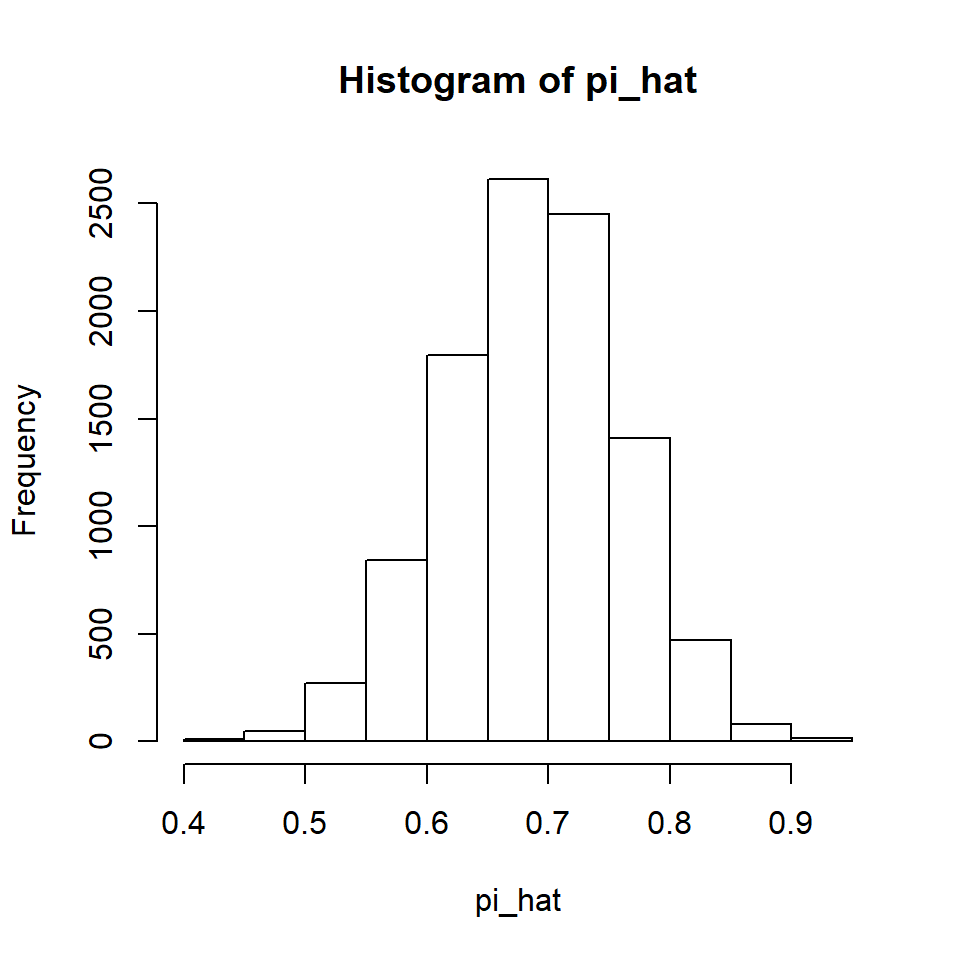
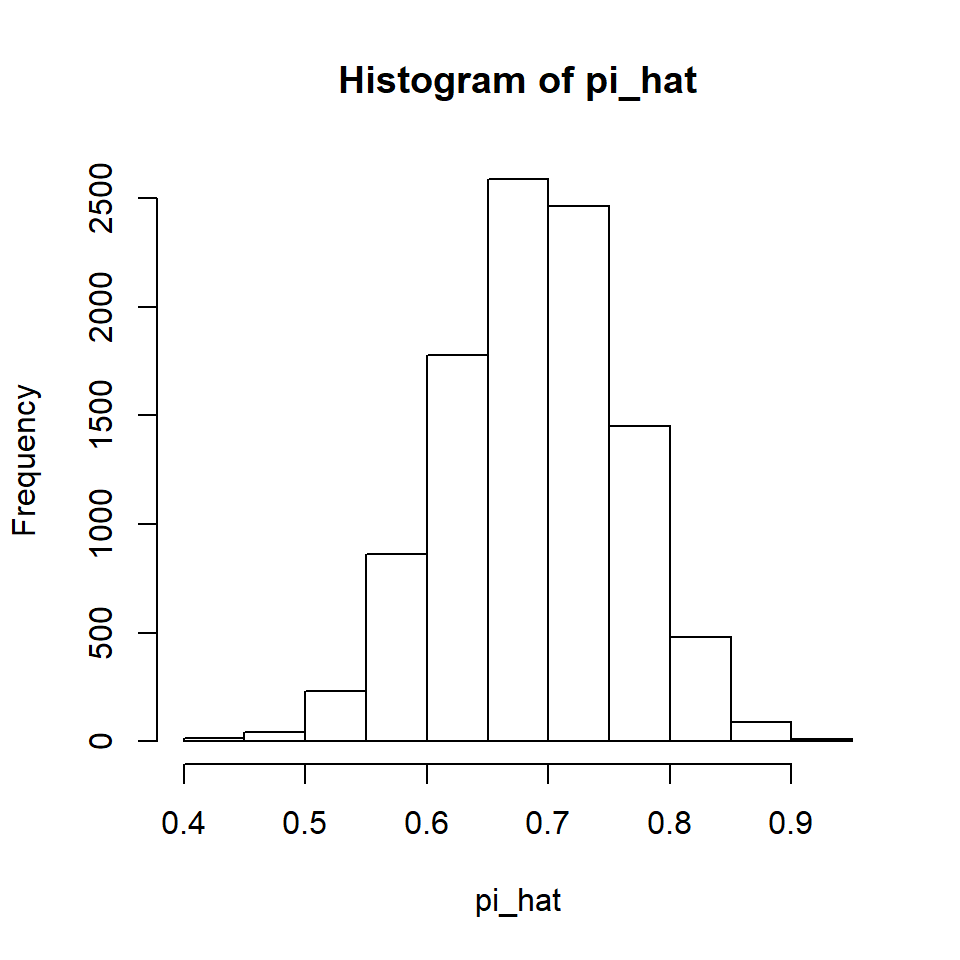
Rebuild of site for new version

diff --git a/docs/articles/lsprop.html b/docs/articles/lsprop.html
@@ -30,7 +30,7 @@
       </button>
       <span class="navbar-brand">
         <a class="navbar-link" href="../index.html">nplearn</a>
-        <span class="version label label-danger" data-toggle="tooltip" data-placement="bottom" title="Unreleased version">0.0.0.9006</span>
+        <span class="version label label-danger" data-toggle="tooltip" data-placement="bottom" title="Unreleased version">0.0.0.9007</span>
       </span>
     </div>
 
@@ -112,8 +112,8 @@
 <span id="cb2-2"><a href="#cb2-2"></a>pi &lt;-<span class="st"> </span><span class="fl">0.7</span></span>
 <span id="cb2-3"><a href="#cb2-3"></a></span>
 <span id="cb2-4"><a href="#cb2-4"></a><span class="kw"><a href="https://www.rdocumentation.org/packages/Rlab/topics/Bernoulli">rbern</a></span>(n, pi)</span>
-<span id="cb2-5"><a href="#cb2-5"></a><span class="co">#&gt;  [1] 1 1 1 1 0 1 0 0 1 1 0 1 0 1 1 1 1 1 0 0 1 0 1 0 1 0 1 1 0 1 1 0 1 1 1</span></span>
-<span id="cb2-6"><a href="#cb2-6"></a><span class="co">#&gt; [36] 1 1 1 1 1</span></span></code></pre></div>
+<span id="cb2-5"><a href="#cb2-5"></a><span class="co">#&gt;  [1] 1 0 1 1 0 1 1 0 1 1 1 0 1 0 1 1 0 1 0 1 1 1 0 1 0 1 1 1 1 1 0 1 1 0 1</span></span>
+<span id="cb2-6"><a href="#cb2-6"></a><span class="co">#&gt; [36] 1 0 0 0 0</span></span></code></pre></div>
 <p>Now we will repeat this simulation 10,000 times. Each time, we will calculate the proportion success in the sample and save it.</p>
 <div class="sourceCode" id="cb3"><pre class="sourceCode r"><code class="sourceCode r"><span id="cb3-1"><a href="#cb3-1"></a>reps &lt;-<span class="st"> </span><span class="dv">10000</span></span>
 <span id="cb3-2"><a href="#cb3-2"></a></span>
@@ -123,7 +123,7 @@
 <p><img src="lsprop_files/figure-html/unnamed-chunk-4-1.png" width="480"></p>
 <p>We can see the CLT at work. Further, note that if we calculate the mean of all 10,000 values of the sample proportions, it is quite close to the population proportion of 0.7.</p>
 <div class="sourceCode" id="cb5"><pre class="sourceCode r"><code class="sourceCode r"><span id="cb5-1"><a href="#cb5-1"></a><span class="kw"><a href="https://www.rdocumentation.org/packages/base/topics/mean">mean</a></span>(pi_hat)</span>
-<span id="cb5-2"><a href="#cb5-2"></a><span class="co">#&gt; [1] 0.70022</span></span></code></pre></div>
+<span id="cb5-2"><a href="#cb5-2"></a><span class="co">#&gt; [1] 0.70138</span></span></code></pre></div>
 <p>When the mean of a statistic’s sampling distribution is the population value of the parameter the statistic is estimating, we refer to the statistic as <em>unbiased</em>. This is a desirable property because it tells us that the average of many wrongs is a right!</p>
 <p>If we increase the sample size, we can see the Law of Large Numbers at work. Let’s try increasing it from 40 to 200.</p>
 <div class="sourceCode" id="cb6"><pre class="sourceCode r"><code class="sourceCode r"><span id="cb6-1"><a href="#cb6-1"></a>n &lt;-<span class="st"> </span><span class="dv">200</span></span>

diff --git a/docs/articles/binomdist.html b/docs/articles/binomdist.html
@@ -30,7 +30,7 @@
       </button>
       <span class="navbar-brand">
         <a class="navbar-link" href="../index.html">nplearn</a>
-        <span class="version label label-danger" data-toggle="tooltip" data-placement="bottom" title="Unreleased version">0.0.0.9006</span>
+        <span class="version label label-danger" data-toggle="tooltip" data-placement="bottom" title="Unreleased version">0.0.0.9007</span>
       </span>
     </div>
 
@@ -279,7 +279,7 @@
 <p>The important trick to remember here is that if we want an upper tail that includes a specified value (in this case, the value of eight), we need to subtract one from this value to make sure it is included in the upper region of the distribution.</p>
 <p>Finally, suppose we wanted to do a simulation using the binomial distribution. Here are 20 random draws from a distribution with <span class="math inline">\(\pi\)</span> = 0.8 when the sample size is 15.</p>
 <div class="sourceCode" id="cb37"><pre class="sourceCode r"><code class="sourceCode r"><span id="cb37-1"><a href="#cb37-1"></a><span class="kw"><a href="https://www.rdocumentation.org/packages/stats/topics/Binomial">rbinom</a></span>(<span class="dv">20</span>, <span class="dv">15</span>, <span class="fl">0.8</span>)</span>
-<span id="cb37-2"><a href="#cb37-2"></a><span class="co">#&gt;  [1] 12 12 13 13 10 10 13 14 13 12 12 11 11 12 13 13 12 11 13 14</span></span></code></pre></div>
+<span id="cb37-2"><a href="#cb37-2"></a><span class="co">#&gt;  [1] 12 12 14 14 13 13 13 12 12 13 10 12 12 11 11 13 14 13 13 12</span></span></code></pre></div>
 <p>Keep in mind that what each number we are randomly generating is the value of <span class="math inline">\(x\)</span>, which is the number of successes in <span class="math inline">\(n\)</span> trials. In this example there are 15 opportunities for success. The probability of success is quite high, so we are primarily seeing high numbers of successes out of the 15 trials.</p>
 <p>In this example, we were drawing from a binomial distribution with <span class="math inline">\(n\)</span> trials and a probability of success, <span class="math inline">\(\pi\)</span>. These are the parameters of the binomial distribution. Any binomial distribution can be generated if we know these two parameters. Let’s end with a picture of a binomial distribution when <span class="math inline">\(n\)</span> = 100 and <span class="math inline">\(\pi\)</span> = 0.5.</p>
 <div class="sourceCode" id="cb38"><pre class="sourceCode r"><code class="sourceCode r"><span id="cb38-1"><a href="#cb38-1"></a><span class="kw"><a href="../reference/binom_plot.html">binom_plot</a></span>(<span class="dv">100</span>, <span class="fl">0.5</span>)</span></code></pre></div>

diff --git a/docs/articles/Bernoulli-Events.html b/docs/articles/Bernoulli-Events.html
@@ -30,7 +30,7 @@
       </button>
       <span class="navbar-brand">
         <a class="navbar-link" href="../index.html">nplearn</a>
-        <span class="version label label-danger" data-toggle="tooltip" data-placement="bottom" title="Unreleased version">0.0.0.9006</span>
+        <span class="version label label-danger" data-toggle="tooltip" data-placement="bottom" title="Unreleased version">0.0.0.9007</span>
       </span>
     </div>
 
@@ -192,10 +192,10 @@
 <a href="#random-variates" class="anchor"></a>Random variates</h3>
 <p>R also has (r) functions for many distributions (e.g., rnorm and rbern). These provide us a specified number of randomly seleted values from the corresponding distribution. These are known as “random variates”. This will be very handy when we study concepts such as Monte Carlo methods.</p>
 <div class="sourceCode" id="cb15"><pre class="sourceCode r"><code class="sourceCode r"><span id="cb15-1"><a href="#cb15-1"></a><span class="kw"><a href="https://www.rdocumentation.org/packages/stats/topics/Normal">rnorm</a></span>(<span class="dv">10</span>)</span>
-<span id="cb15-2"><a href="#cb15-2"></a><span class="co">#&gt;  [1]  0.2275929  1.2290403 -1.4243602  0.2972622  0.4317914  0.4546134</span></span>
-<span id="cb15-3"><a href="#cb15-3"></a><span class="co">#&gt;  [7] -2.7005521  0.1708188 -0.9351374 -0.5065416</span></span>
+<span id="cb15-2"><a href="#cb15-2"></a><span class="co">#&gt;  [1]  0.1210673 -0.5922141 -0.5516040  1.5580930 -0.5874942  1.2093310</span></span>
+<span id="cb15-3"><a href="#cb15-3"></a><span class="co">#&gt;  [7]  0.6343851  1.1108001  2.1798830 -0.9169837</span></span>
 <span id="cb15-4"><a href="#cb15-4"></a><span class="kw">rbern</span>(<span class="dv">10</span>, <span class="fl">0.7</span>)</span>
-<span id="cb15-5"><a href="#cb15-5"></a><span class="co">#&gt;  [1] 1 1 1 0 1 1 0 0 1 1</span></span></code></pre></div>
+<span id="cb15-5"><a href="#cb15-5"></a><span class="co">#&gt;  [1] 0 1 1 1 1 1 1 1 1 1</span></span></code></pre></div>
 </div>
   </div>
 

diff --git a/docs/reference/binom_plot.html b/docs/reference/binom_plot.html
@@ -64,7 +64,7 @@ specified number of trials and a constant probability of success." />
       </button>
       <span class="navbar-brand">
         <a class="navbar-link" href="../index.html">nplearn</a>
-        <span class="version label label-danger" data-toggle="tooltip" data-placement="bottom" title="Unreleased version">0.0.0.9006</span>
+        <span class="version label label-danger" data-toggle="tooltip" data-placement="bottom" title="Unreleased version">0.0.0.9007</span>
       </span>
     </div>
 

diff --git a/docs/reference/power_plot.html b/docs/reference/power_plot.html
@@ -65,7 +65,7 @@ a maximum Type I error rate, and an optional power target." />
       </button>
       <span class="navbar-brand">
         <a class="navbar-link" href="../index.html">nplearn</a>
-        <span class="version label label-danger" data-toggle="tooltip" data-placement="bottom" title="Unreleased version">0.0.0.9006</span>
+        <span class="version label label-danger" data-toggle="tooltip" data-placement="bottom" title="Unreleased version">0.0.0.9007</span>
       </span>
     </div>
 

diff --git a/docs/reference/bern_plot.html b/docs/reference/bern_plot.html
@@ -64,7 +64,7 @@ specified probability of success of a Bernoulli event." />
       </button>
       <span class="navbar-brand">
         <a class="navbar-link" href="../index.html">nplearn</a>
-        <span class="version label label-danger" data-toggle="tooltip" data-placement="bottom" title="Unreleased version">0.0.0.9006</span>
+        <span class="version label label-danger" data-toggle="tooltip" data-placement="bottom" title="Unreleased version">0.0.0.9007</span>
       </span>
     </div>
 

diff --git a/docs/articles/OnePropExact.html b/docs/articles/OnePropExact.html
@@ -30,7 +30,7 @@
       </button>
       <span class="navbar-brand">
         <a class="navbar-link" href="../index.html">nplearn</a>
-        <span class="version label label-danger" data-toggle="tooltip" data-placement="bottom" title="Unreleased version">0.0.0.9006</span>
+        <span class="version label label-danger" data-toggle="tooltip" data-placement="bottom" title="Unreleased version">0.0.0.9007</span>
       </span>
     </div>
 

diff --git a/docs/articles/Workflow-Sample.html b/docs/articles/Workflow-Sample.html
@@ -30,7 +30,7 @@
       </button>
       <span class="navbar-brand">
         <a class="navbar-link" href="../index.html">nplearn</a>
-        <span class="version label label-danger" data-toggle="tooltip" data-placement="bottom" title="Unreleased version">0.0.0.9006</span>
+        <span class="version label label-danger" data-toggle="tooltip" data-placement="bottom" title="Unreleased version">0.0.0.9007</span>
       </span>
     </div>
 

diff --git a/docs/articles/index.html b/docs/articles/index.html
@@ -60,7 +60,7 @@
       </button>
       <span class="navbar-brand">
         <a class="navbar-link" href="../index.html">nplearn</a>
-        <span class="version label label-danger" data-toggle="tooltip" data-placement="bottom" title="Unreleased version">0.0.0.9006</span>
+        <span class="version label label-danger" data-toggle="tooltip" data-placement="bottom" title="Unreleased version">0.0.0.9007</span>
       </span>
     </div>
 

diff --git a/docs/articles/signtest.html b/docs/articles/signtest.html
@@ -30,7 +30,7 @@
       </button>
       <span class="navbar-brand">
         <a class="navbar-link" href="../index.html">nplearn</a>
-        <span class="version label label-danger" data-toggle="tooltip" data-placement="bottom" title="Unreleased version">0.0.0.9006</span>
+        <span class="version label label-danger" data-toggle="tooltip" data-placement="bottom" title="Unreleased version">0.0.0.9007</span>
       </span>
     </div>
 

diff --git a/docs/reference/index.html b/docs/reference/index.html
@@ -60,7 +60,7 @@
       </button>
       <span class="navbar-brand">
         <a class="navbar-link" href="../index.html">nplearn</a>
-        <span class="version label label-danger" data-toggle="tooltip" data-placement="bottom" title="Unreleased version">0.0.0.9006</span>
+        <span class="version label label-danger" data-toggle="tooltip" data-placement="bottom" title="Unreleased version">0.0.0.9007</span>
       </span>
     </div>
 

diff --git a/docs/reference/nplearn-package.html b/docs/reference/nplearn-package.html
@@ -65,7 +65,7 @@
       </button>
       <span class="navbar-brand">
         <a class="navbar-link" href="../index.html">nplearn</a>
-        <span class="version label label-danger" data-toggle="tooltip" data-placement="bottom" title="Unreleased version">0.0.0.9006</span>
+        <span class="version label label-danger" data-toggle="tooltip" data-placement="bottom" title="Unreleased version">0.0.0.9007</span>
       </span>
     </div>
 
